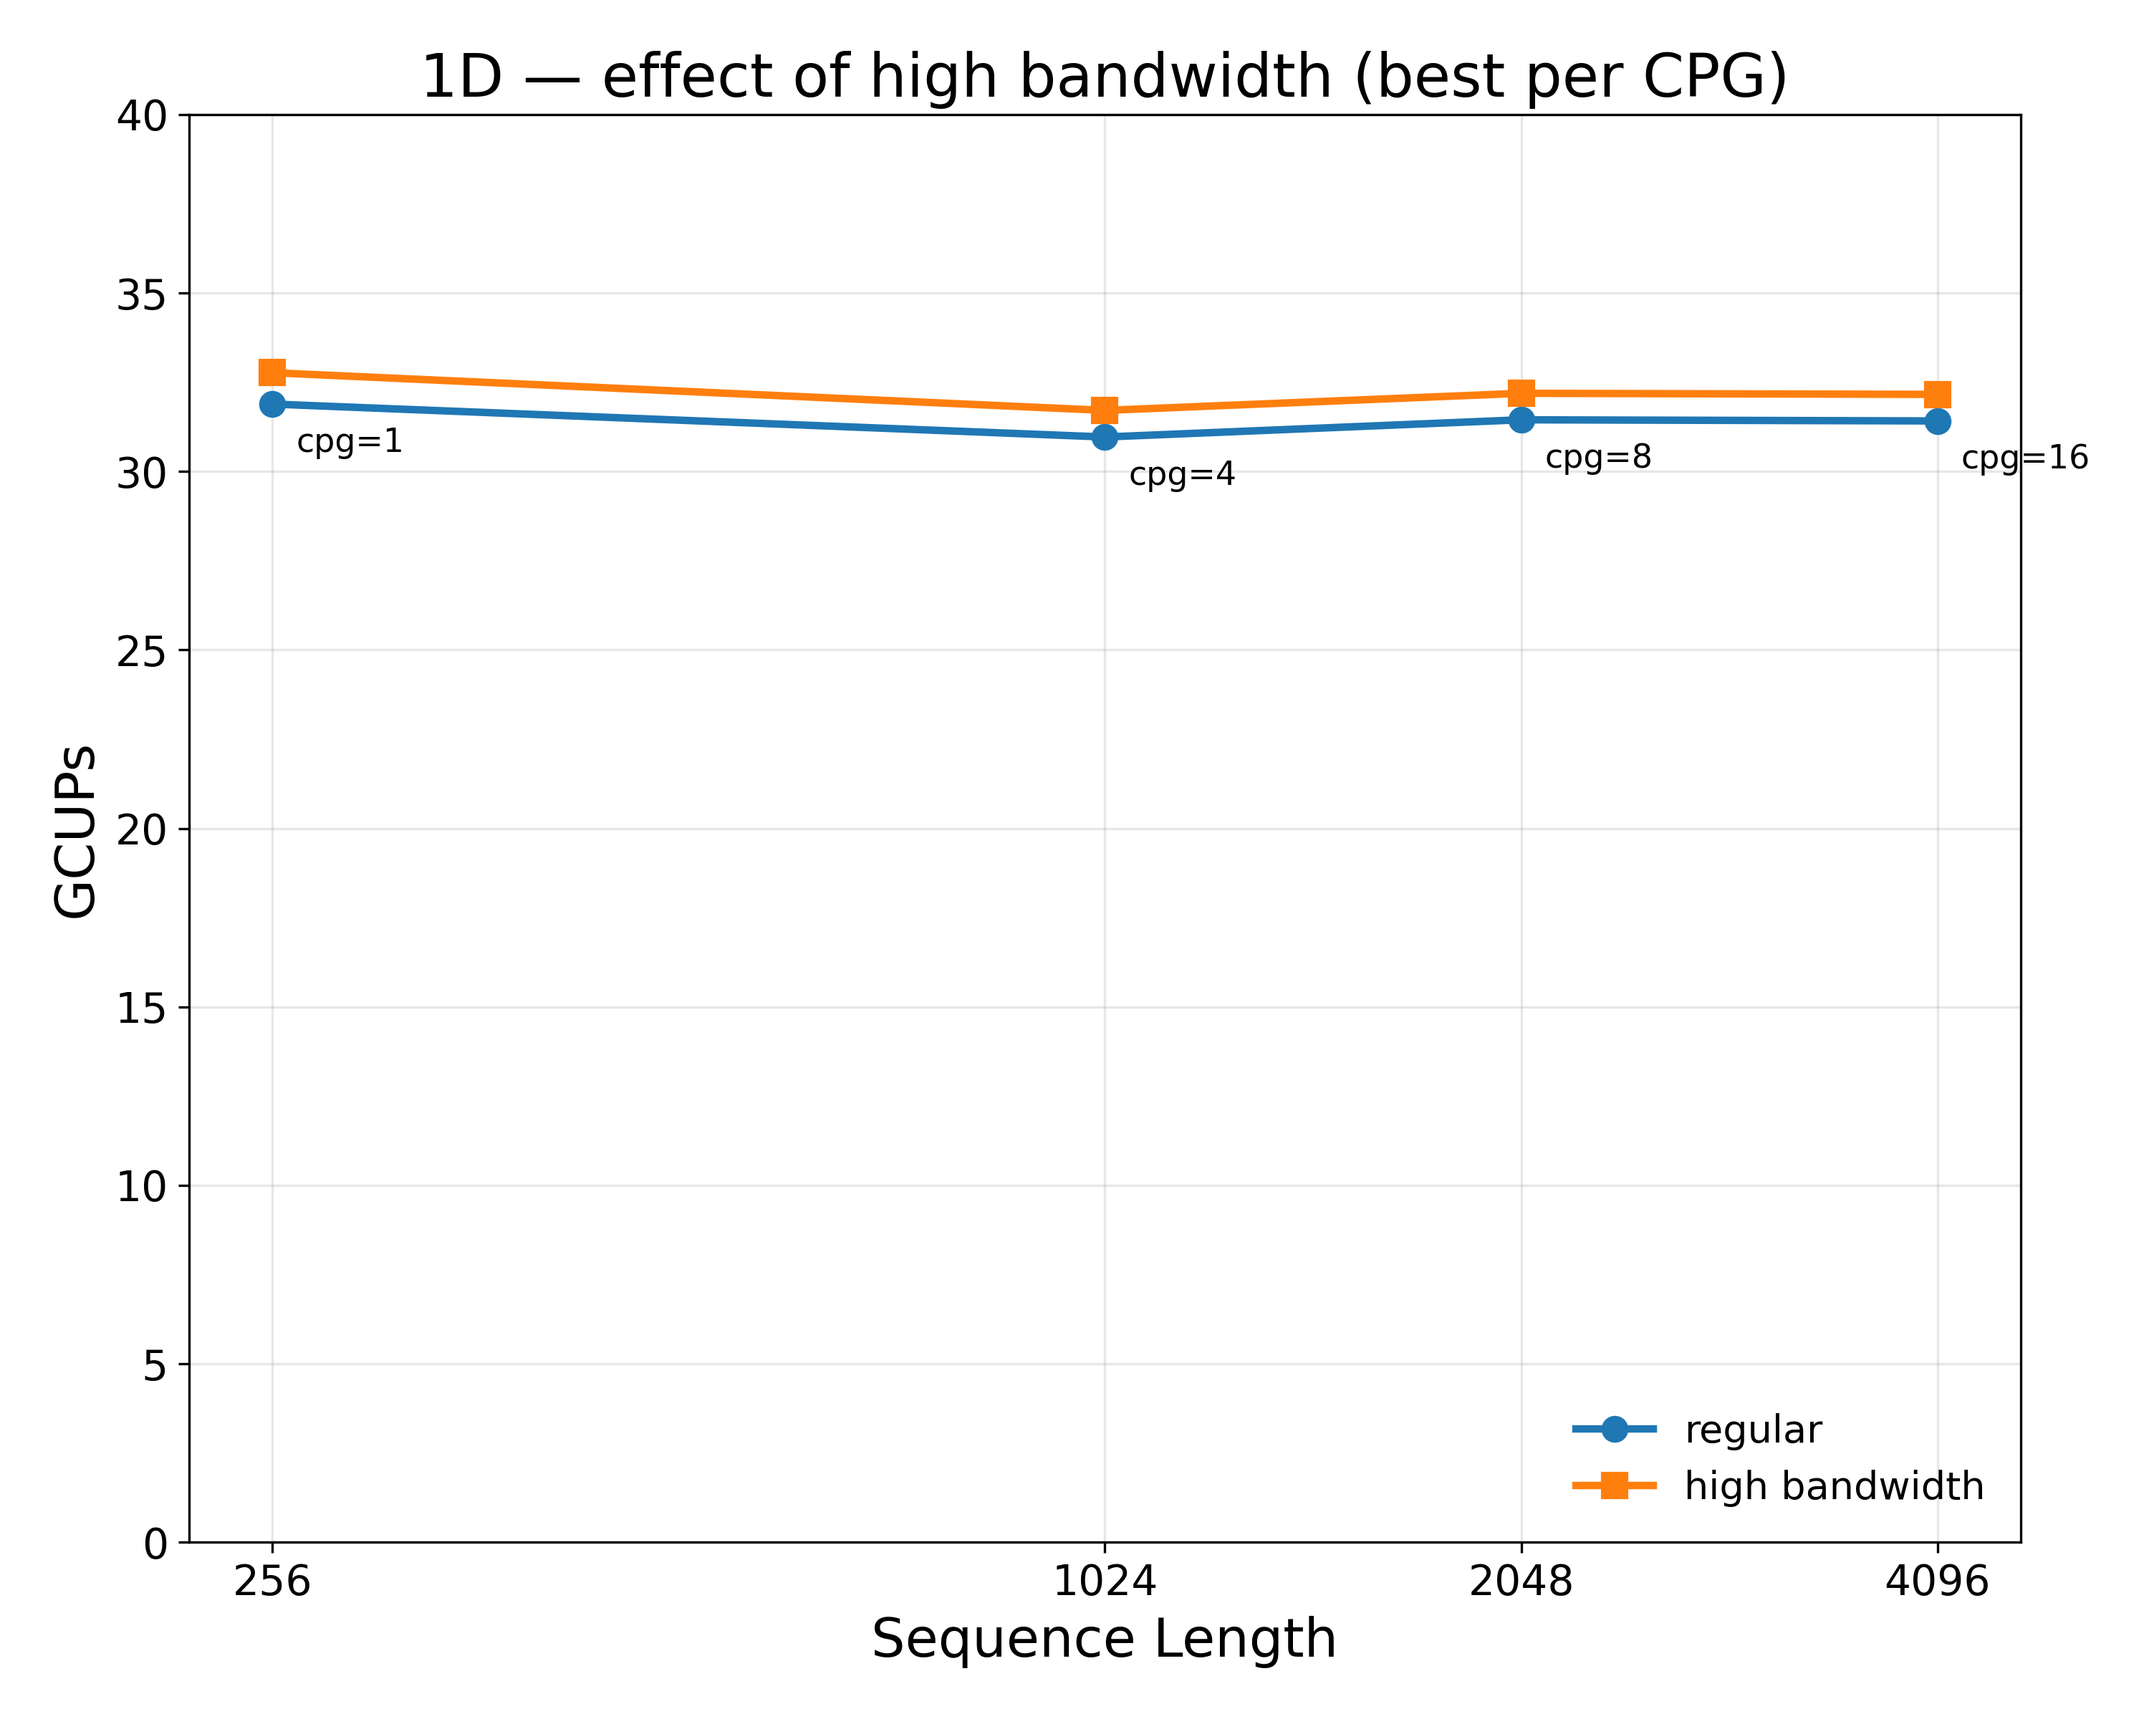
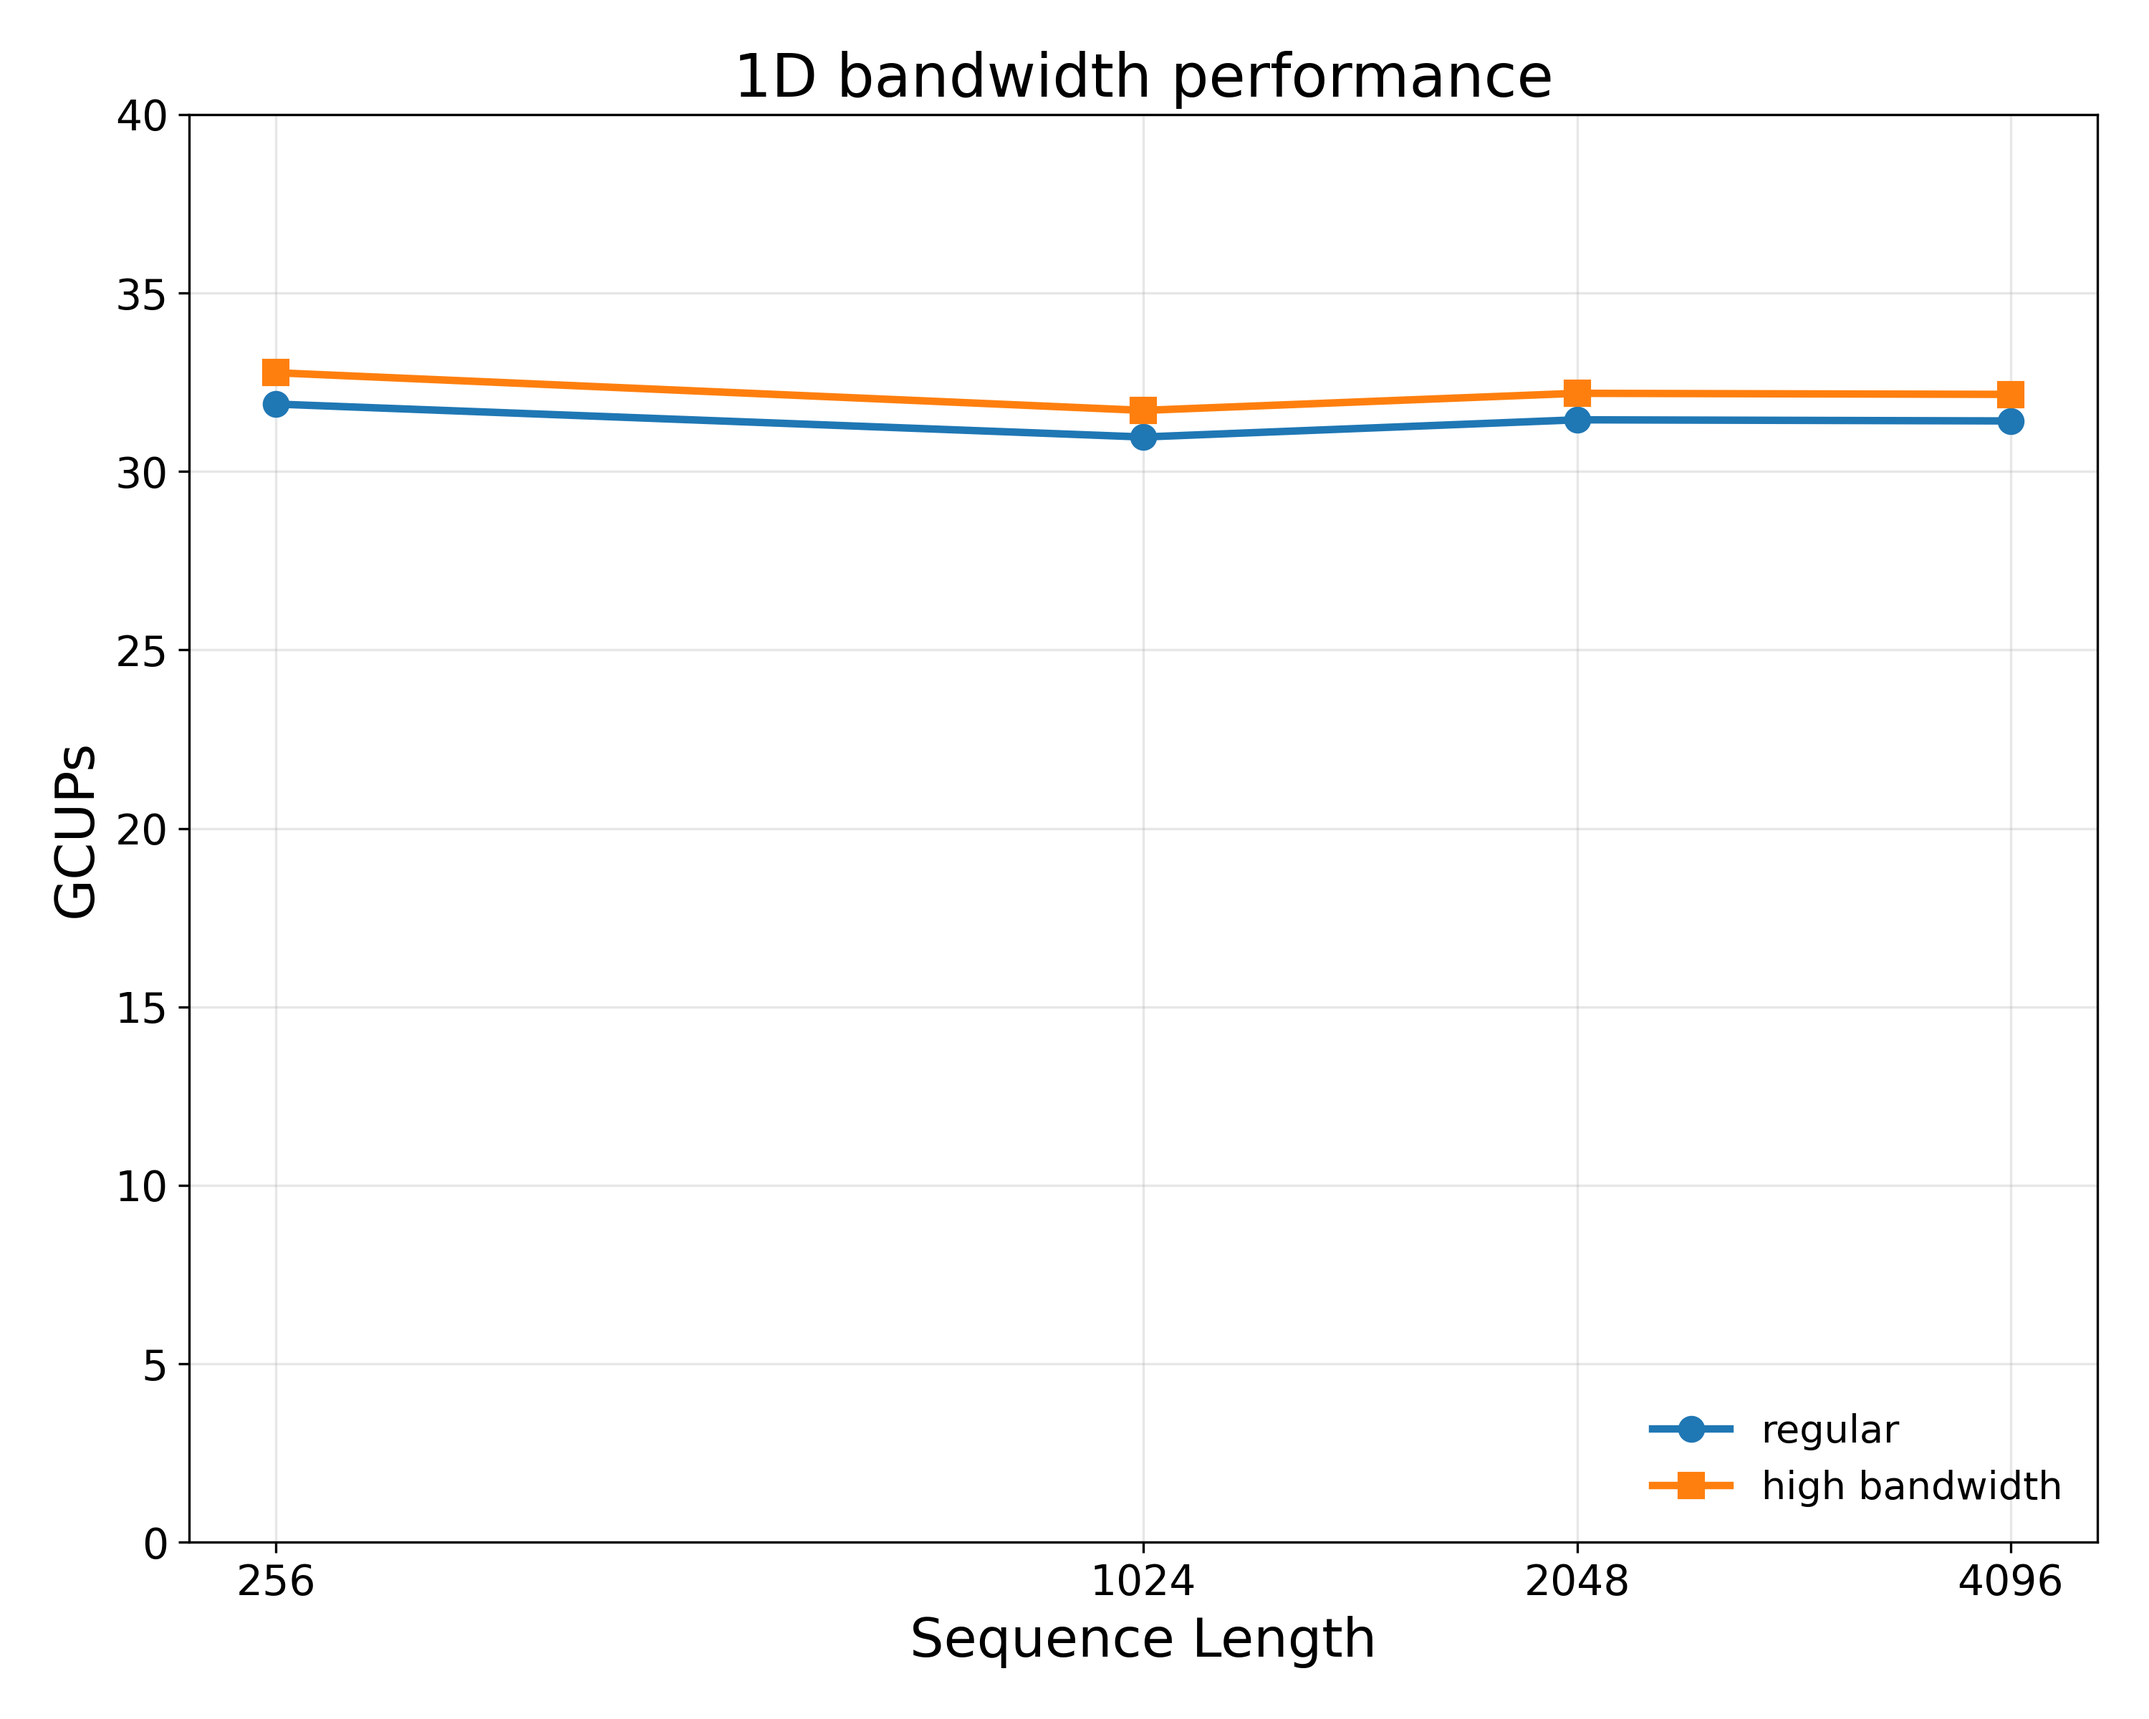
slow mode: uniform /8 work scaling everywhere
- run_experiments.sh: replace per-experiment slow divisors with
  uniform /8: sw1d/sw2d/roofline_slow → repeat /= 8;
  radix_sort_slow → num-arr /= 8 (was /16 / /2 split by SIZE).
  GCUPs sim32bw projection factor updated from 2 to 4 (= 32/8).
- charts: bandwidth plots retitled to "1D/2D bandwidth performance";
  cpg=N annotations dropped from the 1D plot.

diff --git a/plot.py b/plot.py
@@ -342,7 +342,7 @@ def plot_sw_effect_hibw():
     style_seqlen_axis(ax, common_2d); gcups_axis(ax)
     ax.set_ylim(*SHARED_YLIM)
     ax.legend(loc="lower right", frameon=False)
-    ax.set_title("2D — effect of high bandwidth")
+    ax.set_title("2D bandwidth performance")
     save(fig, "2d_effect_hibw")
 
     # ── sw/1d (sparse — best-per-CPG slow rows only) ───────────────────────
@@ -355,13 +355,10 @@ def plot_sw_effect_hibw():
     fig, ax = plt.subplots(figsize=SIZE_DEFAULT)
     ax.plot(sls, reg_1d, "o-", color=COLOR_REGULAR, label="regular")
     ax.plot(sls, hib_1d, "s-", color=COLOR_HIBW,    label="high bandwidth")
-    for (cpg, sl), r in zip(common_1d, reg_1d):
-        ax.annotate(f"cpg={cpg}", (sl, r), textcoords="offset points",
-                    xytext=(8, -16), fontsize=11)
     style_seqlen_axis(ax, sls); gcups_axis(ax)
     ax.set_ylim(*SHARED_YLIM)
     ax.legend(loc="lower right", frameon=False)
-    ax.set_title("1D — effect of high bandwidth (best per CPG)")
+    ax.set_title("1D bandwidth performance")
     save(fig, "1d_effect_hibw")
 
 
